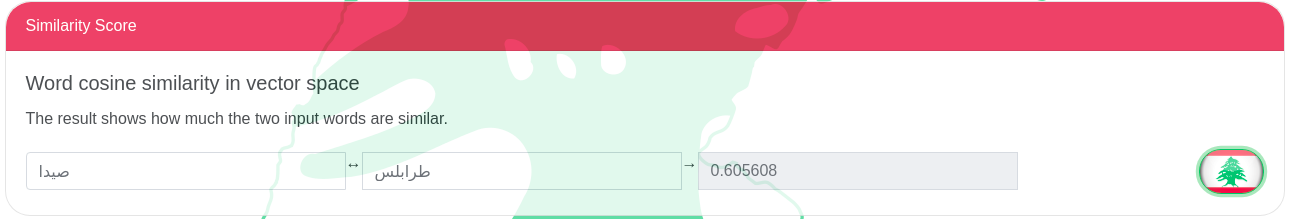
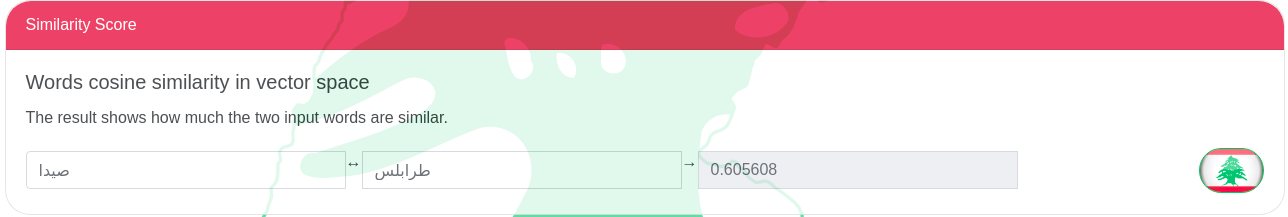
update image

diff --git a/explorer/templates/base.html b/explorer/templates/base.html
@@ -174,7 +174,7 @@
         <div class="card mb-3 mx-auto special-card" style="max-width: 80rem; border-radius: 25px" >
             <div class="card-header  bg-danger text-white" style="border-top-right-radius: 25px; border-top-left-radius: 25px" >Similarity Score</div>
             <div class="card-body">
-              <h5 class="card-title">Word cosine similarity in vector space</h5>
+              <h5 class="card-title">Words cosine similarity in vector space</h5>
               <p class="card-text">The result shows how much the two input words are similar.</p>
             
               <div class="input-group" style="  display: flex;
